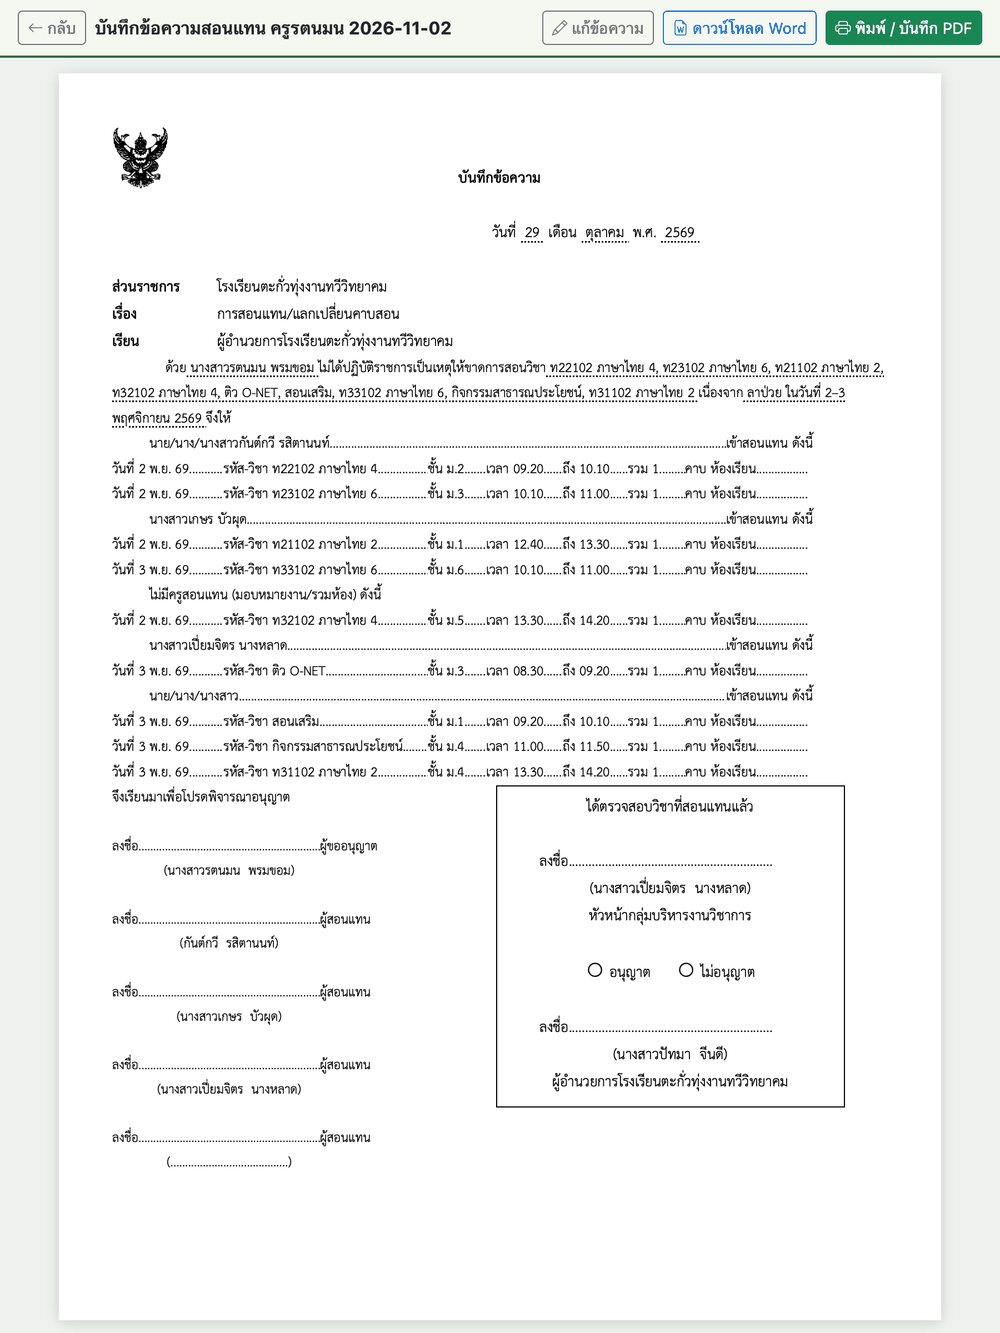
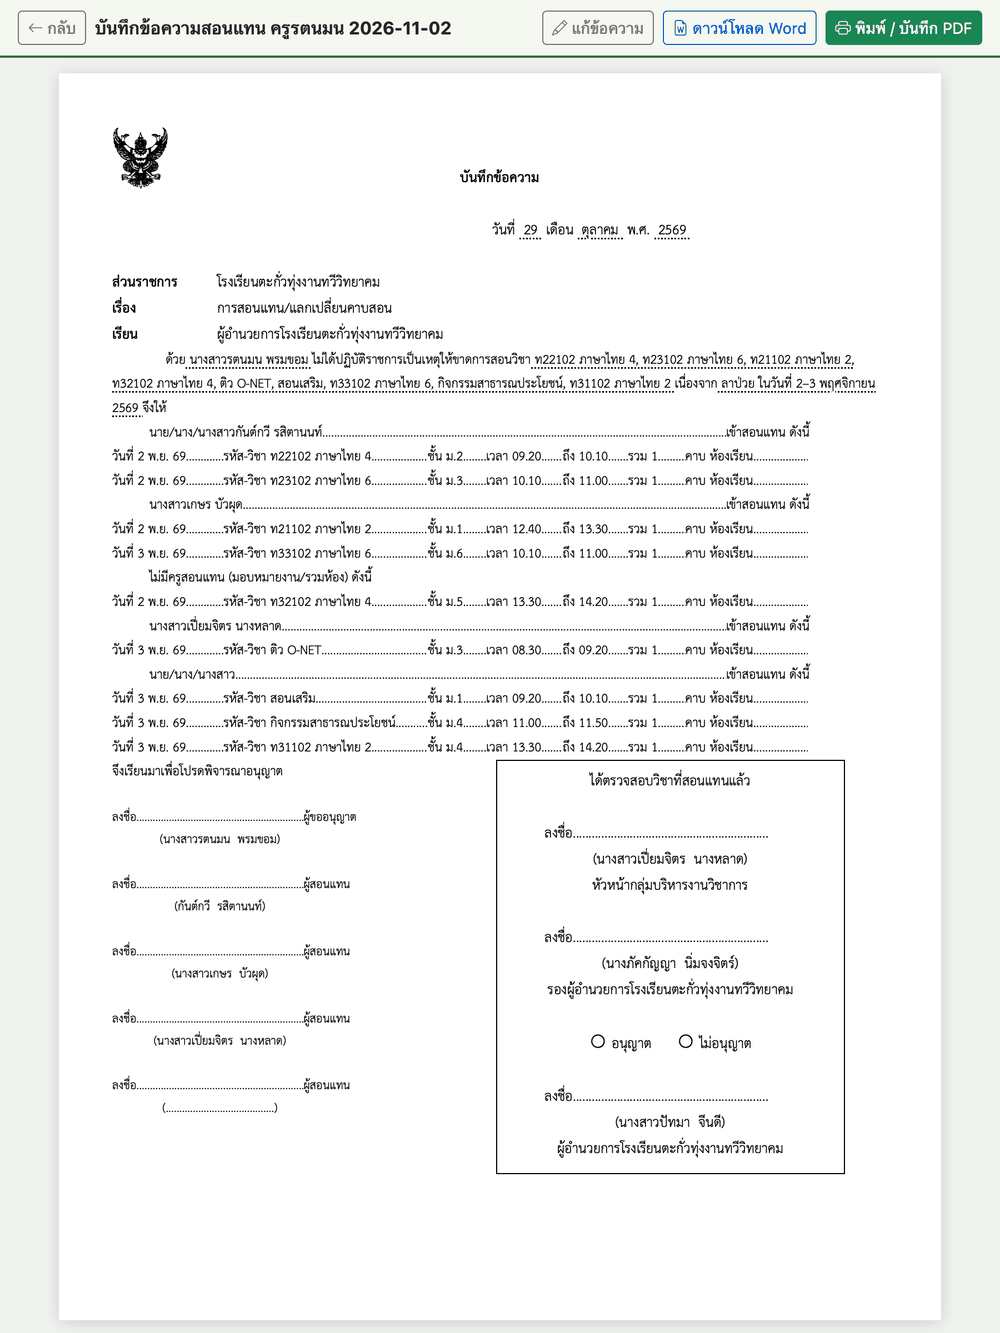
บันทึกข้อความสอนแทน: เพิ่มลงชื่อรองผู้อำนวยการใต้หัวหน้ากลุ่มบริหารงานวิชาการในกรอบขวา (Word + PDF)
ชื่อ/ตำแหน่งจากผู้ลงนามท้ายตารางสอนคนที่ 2 (ไม่มี = นางภัคกัญญา นิ่มจงจิตร์ รองผู้อำนวยการโรงเรียน…)
ขึ้นเสมอแม้ตั้งซ่อนในตารางสอน · คู่มือ + ภาพตัวอย่างอัปเดต

diff --git a/public/subs-guide.html b/public/subs-guide.html
@@ -246,14 +246,14 @@
         <ul>
           <li>วันที่ · ชื่อครูที่ไม่มา · วิชาที่ขาดสอน · สาเหตุและวันที่ลา</li>
           <li>ครูสอนแทนแยกเป็นคน แต่ละแถวมี วันที่ รหัส-วิชา ชั้น เวลา ถึง รวมกี่คาบ (คาบติดกันรวมเป็นแถวเดียว)</li>
-          <li>ชื่อในวงเล็บใต้ลายเซ็นทุกช่อง · หัวหน้ากลุ่มบริหารงานวิชาการ · ผู้อำนวยการ</li>
+          <li>ชื่อในวงเล็บใต้ลายเซ็นทุกช่อง · หัวหน้ากลุ่มบริหารงานวิชาการ · รองผู้อำนวยการ · ผู้อำนวยการ</li>
         </ul>
         <h3>เขียนเอง</h3>
         <ul>
           <li>ลายเซ็น · ช่อง <b>ห้องเรียน</b> (ระบบไม่มีข้อมูลห้อง) · ผอ. ทำเครื่องหมาย ○ อนุญาต / ไม่อนุญาต</li>
         </ul>
         <h3>ลำดับลงนาม</h3>
-        <p>ผู้ขออนุญาต → ผู้สอนแทน → หัวหน้ากลุ่มบริหารงานวิชาการ (ตรวจ) → ผู้อำนวยการ (อนุญาต)</p>
+        <p>ผู้ขออนุญาต → ผู้สอนแทน → หัวหน้ากลุ่มบริหารงานวิชาการ (ตรวจ) → รองผู้อำนวยการ → ผู้อำนวยการ (อนุญาต)</p>
       </div>
     </div>
     <table>
@@ -305,7 +305,7 @@
       <p>ยังไม่มีใครรับคาบนั้น ช่องชื่อจะว่างไว้ · รอให้มีคนรับ/ผู้จัดสอนแทนเลือกครูก่อน แล้วเปิดบันทึกข้อความใหม่ ข้อมูลอัปเดตทันที</p></details>
     <details><summary>คำนำหน้าชื่อขึ้น "นาย/นาง/นางสาว" / ชื่อผู้ลงนามไม่ถูก</summary>
       <p>ขีดเลือกบนกระดาษ หรือกด <b>แก้ข้อความ</b> ก่อนพิมพ์ · แก้ถาวร: ชื่อบัญชีผู้ใช้ใส่คำนำหน้า (หัวข้อ 6) ·
-        ชื่อหัวหน้ากลุ่มบริหารงานวิชาการ = ผู้ลงนามท้ายตารางสอน (จัดตาราง → เครื่องมือ → ผู้ลงนามท้ายตาราง) · ชื่อ ผอ. = หน้าตั้งค่าระบบ</p></details>
+        ชื่อหัวหน้ากลุ่มบริหารงานวิชาการ และรองผู้อำนวยการ = ผู้ลงนามท้ายตารางสอน คนที่ 1 และ 2 (จัดตาราง → เครื่องมือ → ผู้ลงนามท้ายตาราง) · ชื่อ ผอ. = หน้าตั้งค่าระบบ</p></details>
     <details><summary>ลาหลายวัน บันทึกข้อความยาวจนตัวหนังสือเล็ก</summary>
       <p>ระบบย่อให้พอดี 1 หน้า (ย่อได้ถึงราว 80%) ถ้าคาบเยอะมาก Word จะขึ้นหน้า 2 ต่อให้เอง · ลาไม่มีกำหนด หรือยาวกว่า 2 สัปดาห์ ระบบทำใบเฉพาะวันที่เลือกในแท็บสอนแทน</p></details>
     <details><summary>พิมพ์จาก iPhone / iPad / Safari แล้วไม่พอดีหน้า</summary>

diff --git a/public/sub-memo.html b/public/sub-memo.html
@@ -107,7 +107,7 @@ function signHTML(label, name, center) {
     <div class="r">${hidSign}<span class="d c"><span>(${escH(name || '.'.repeat(40))})</span></span>${center ? hidSign : ''}</div></div>`;
 }
 
-function memoHTML(m, acad, dir) {
+function memoHTML(m, acad, dep, dir) {
   const fld = (lab, v, w) => `<span class="fill" style="flex-basis:${(w / W_TWIPS * 100).toFixed(2)}%"><span>${escH(lab)}</span>${v ? `<span class="fv">${escH(v)}</span>` : ''}<span class="dots"></span></span>`;
   const rowHTML = r => {
     const vals = r ? [r.date, r.subject, r.cls, r.start, r.end, String(r.n), ''] : FIELDS.map(() => '');
@@ -138,6 +138,7 @@ function memoHTML(m, acad, dir) {
         <div class="m-box m-h">
           <div>ได้ตรวจสอบวิชาที่สอนแทนแล้ว</div><div class="blank"></div>
           ${signHTML('', acad.name, true)}<div>${escH(acad.title)}</div><div class="blank"></div>
+          ${signHTML('', dep.name, true)}<div>${escH(dep.title)}</div><div class="blank"></div>
           <div><span class="circle">○</span> อนุญาต &nbsp;&nbsp;&nbsp;&nbsp; <span class="circle">○</span> ไม่อนุญาต</div><div class="blank"></div>
           ${signHTML('', dir.name, true)}<div>${escH(dir.full_title)}</div>
         </div>
@@ -177,7 +178,7 @@ async function render() {
   const d = await apiFetch('/api/sub-memo?' + API_Q);
   document.title = d.title;
   document.getElementById('docTitle').textContent = d.title;
-  document.getElementById('pages').innerHTML = d.memos.length ? d.memos.map(m => memoHTML(m, d.academic, d.director)).join('')
+  document.getElementById('pages').innerHTML = d.memos.length ? d.memos.map(m => memoHTML(m, d.academic, d.deputy, d.director)).join('')
     : '<div class="text-center text-muted py-5"><i class="bi bi-calendar-check fs-1 d-block mb-2"></i>วันนี้ไม่มีครูที่ต้องมีคนสอนแทน</div>';
   await fontsReady();
   fitPages();

diff --git a/submemo.py b/submemo.py
@@ -5,7 +5,8 @@
   ครุฑ + บันทึกข้อความ · วันที่ เดือน พ.ศ. · ส่วนราชการ / เรื่อง การสอนแทน/แลกเปลี่ยนคาบสอน / เรียน ผู้อำนวยการ
   ด้วย [ครูที่ไม่มา] ไม่ได้ปฏิบัติราชการเป็นเหตุให้ขาดการสอนวิชา [วิชา] เนื่องจาก [สาเหตุ] จึงให้
     [ครูสอนแทน] เข้าสอนแทน ดังนี้ — แถวละ: วันที่ รหัส-วิชา ชั้น เวลา ถึง รวม…คาบ ห้องเรียน (คาบติดกันรวมเป็นแถวเดียว)
-  ซ้าย: ลงชื่อผู้ขออนุญาต + ผู้สอนแทนทุกคน · กรอบขวา: หัวหน้ากลุ่มบริหารงานวิชาการตรวจ / ผอ. อนุญาต-ไม่อนุญาต
+  ซ้าย: ลงชื่อผู้ขออนุญาต + ผู้สอนแทนทุกคน · กรอบขวา: หัวหน้ากลุ่มบริหารงานวิชาการตรวจ / รอง ผอ. / ผอ. อนุญาต-ไม่อนุญาต
+  (รอง ผอ. ครูสั่งเพิ่ม 29 ต.ค. 69 — ชื่อจากผู้ลงนามท้ายตารางสอนคนที่ 2)
 1 ใบ = บันทึกครูไม่มา 1 รายการ (ลาหลายวัน = ใบเดียว) · ไม่มีกำหนด/ยาวเกิน 14 วัน = เฉพาะวันที่เลือก
 คาบที่ยังไม่มีคนรับ = กลุ่มชื่อว่าง (เขียนเพิ่มได้) · ห้องเรียน: ระบบไม่มีข้อมูลห้อง เว้นจุดไว้ให้เขียน
 คำนำหน้าชื่อ: ระบบเก็บชื่อครูไม่มีคำนำหน้า → หาจากชื่อครูที่ปรึกษา / บัญชีผู้ใช้ / ผู้ลงนาม ไม่พบ = "นาย/นาง/นางสาว" ให้ขีดเลือก
@@ -46,6 +47,8 @@ ROW_MAX = W - 40
 MIN_DOTS = 0.8                                      # จุดอย่างน้อยหลังค่าในแต่ละช่อง (เท่าของตัวอักษร)
 COL_LEFT, COL_BOX = 5182, 4708                      # ช่องลงชื่อซ้าย / กรอบ หัวหน้าวิชาการ-ผอ. (ที่เหลือ = ช่องว่างขวา)
 SIGN_DOTS = 10                                      # ความยาวเส้นจุดลงชื่อ (เท่าของตัวอักษร)
+DEFAULT_DEPUTY = 'นางภัคกัญญา นิ่มจงจิตร์'            # รอง ผอ. เมื่อยังไม่ตั้งในตารางสอน (เหมือน DEFAULT_DEPUTY ใน timetable.html)
+BOX_LINES = 15                                      # บรรทัดในกรอบขวา: ตรวจ(5) + รอง ผอ.(4) + อนุญาต(2) + ผอ.(3) + ว่าง
 
 # ความกว้างตัวอักษร TH Sarabun New ตัวธรรมดา (1/1000 เท่าของขนาด วัดจากไฟล์ฟอนต์ public/fonts ด้วย Pillow)
 # สระบน-ล่าง/วรรณยุกต์ = 0 · ตัวที่ไม่มีในตาราง = 450 · TH SarabunPSK ใน Word กว้างใกล้เคียงกัน
@@ -211,7 +214,7 @@ def layout(m):
         h += body * LINE * math.ceil(para_em * 1.05 / (W / (20 * body)) + 0.15)       # ตัดคำไทยเหลือท้ายบรรทัด ~5%
         h += body * LINE * nlines
         left = body * LINE + len(m['signers']) * 3 * sign * LINE
-        return h + max(left, 11 * head * LINE + 10)
+        return h + max(left, BOX_LINES * head * LINE + 10)
 
     k = 1.0
     while k > 0.78 and height(k) > AVAIL_PT:
@@ -294,7 +297,7 @@ def _sign(label, name, size, left, dots_em=SIGN_DOTS, mid=None):
             + _p(_tab(size) + _r(f"({name or '.' * 40})", size), ind=ind, tabs=[('center', mid, False)], keep=True))
 
 
-def memo_xml(m, n, academic, director):
+def memo_xml(m, n, boss):
     sz = m['size']
     h, b, s, rs = sz['head'], sz['body'], sz['sign'], sz['row']
     md = m['memo_date']
@@ -306,7 +309,7 @@ def memo_xml(m, n, academic, director):
     x += _p(_r(' ', h))
     info_tab = [('left', INFO_TAB, False)]
     school = m['school']
-    dir_title = director['title']
+    dir_title = boss['director']['title']
     for lab, val in (('ส่วนราชการ', school), ('เรื่อง', 'การสอนแทน/แลกเปลี่ยนคาบสอน'), ('เรียน', dir_title)):
         x += _p(_r(lab, h, True) + _tab(h) + _r(val, h), tabs=info_tab)
     x += _p(''.join(_r(f' {t} ' if v else t, b, u=bool(v)) for t, v in m['para']),
@@ -331,11 +334,13 @@ def memo_xml(m, n, academic, director):
     for sg in m['signers']:
         left += _p(_r(' ', s), keep=True) + _sign(sg['label'], sg['name'], s, 0)
     c = COL_BOX // 2
+    acad, dep, dirc = boss['academic'], boss['deputy'], boss['director']
     box = (_p(_r('ได้ตรวจสอบวิชาที่สอนแทนแล้ว', h), 'center') + _p(_r(' ', h))
-           + _sign('', academic['name'], h, 0, mid=c) + _p(_r(academic['title'], h), 'center') + _p(_r(' ', h))
+           + _sign('', acad['name'], h, 0, mid=c) + _p(_r(acad['title'], h), 'center') + _p(_r(' ', h))
+           + _sign('', dep['name'], h, 0, mid=c) + _p(_r(dep['title'], h), 'center') + _p(_r(' ', h))
            + _p(_r('○', h + 2, font='Segoe UI Symbol') + _r(' อนุญาต      ', h) + _r('○', h + 2, font='Segoe UI Symbol')
                 + _r(' ไม่อนุญาต', h), 'center') + _p(_r(' ', h))
-           + _sign('', director['name'], h, 0, mid=c) + _p(_r(director['full_title'], h), 'center'))
+           + _sign('', dirc['name'], h, 0, mid=c) + _p(_r(dirc['full_title'], h), 'center'))
     one = '<w:{0} w:val="single" w:sz="8" w:space="0" w:color="000000"/>'
     nil = ''.join(f'<w:{e} w:val="nil"/>' for e in ('top', 'left', 'bottom', 'right', 'insideH', 'insideV'))
     spare = W - COL_LEFT - COL_BOX
@@ -352,8 +357,8 @@ def memo_xml(m, n, academic, director):
     return x
 
 
-def build_docx(memos, title, academic, director):
-    body = ''.join(memo_xml(m, i + 1, academic, director) for i, m in enumerate(memos))
+def build_docx(memos, title, sg):
+    body = ''.join(memo_xml(m, i + 1, sg) for i, m in enumerate(memos))
     sect = (f'<w:sectPr><w:pgSz w:w="{PAGE_W}" w:h="{PAGE_H}"/><w:pgMar w:top="{MARGIN}" w:right="{MARGIN}" w:bottom="{MARGIN}" '
             f'w:left="{MARGIN}" w:header="425" w:footer="425" w:gutter="0"/></w:sectPr>')
     ns = ('xmlns:w="http://schemas.openxmlformats.org/wordprocessingml/2006/main" '
@@ -407,31 +412,34 @@ def build_docx(memos, title, academic, director):
     return buf
 
 
-def signers_of(con, day, settings, pre):
-    """ผู้ลงนามในกรอบขวา: หัวหน้ากลุ่มบริหารงานวิชาการ (ผู้ลงนามคนแรกท้ายตารางสอน) + ผอ. (หน้าตั้งค่า)"""
-    acad = None
+def signers_of(con, settings):
+    """ผู้ลงนามในกรอบขวา: หัวหน้ากลุ่มบริหารงานวิชาการ + รอง ผอ. (ผู้ลงนามคนที่ 1, 2 ท้ายตารางสอน) + ผอ. (หน้าตั้งค่า)
+    รอง ผอ. ขึ้นเสมอแม้ตั้งซ่อนในตารางสอน (ครูสั่งให้มีในบันทึกข้อความ)"""
+    raw = []
     for r in con.execute('SELECT config FROM tt_terms ORDER BY published DESC, id DESC'):
-        sg = [x for x in jl(r['config'], {}).get('signers') or [] if isinstance(x, dict) and x.get('name')]
-        if sg:
-            acad = sg[0]
+        raw = [x if isinstance(x, dict) else {} for x in jl(r['config'], {}).get('signers') or []]
+        if any(x.get('name') for x in raw):
             break
+    acad = raw[0] if raw and raw[0].get('name') else {}
+    dep = raw[1] if len(raw) > 1 and raw[1].get('name') else {}
     school = settings.get('school_name', '')
     title = settings.get('director_title') or 'ผู้อำนวยการโรงเรียน'
     full_title = (title.replace('โรงเรียน', '') + school) if school.startswith('โรงเรียน') else title + school
     paren = lambda n: re.sub(r'\s+', '  ', (n or '').strip())          # noqa: E731  (ชื่อ  นามสกุล เว้น 2 เคาะตามแบบฟอร์ม)
-    return (dict(name=paren(acad['name']) if acad else '', title=(acad or {}).get('title') or 'หัวหน้ากลุ่มบริหารงานวิชาการ'),
-            dict(name=paren(settings.get('director_name')), title=full_title, full_title=full_title))
+    return dict(academic=dict(name=paren(acad.get('name')), title=acad.get('title') or 'หัวหน้ากลุ่มบริหารงานวิชาการ'),
+                deputy=dict(name=paren(dep.get('name') or DEFAULT_DEPUTY), title=dep.get('title') or 'รอง' + full_title),
+                director=dict(name=paren(settings.get('director_name')), title=full_title, full_title=full_title))
 
 
 def init(app, get_db, login_required, current_user, get_settings):
     from flask import jsonify, request, send_file
 
     def collect():
-        """?date=วันที่ [&absence_id=] → (memos, title, academic, director, None) หรือ (..., (ข้อความ, status))"""
+        """?date=วันที่ [&absence_id=] → (memos, title, ผู้ลงนาม, None) หรือ (None, None, None, (ข้อความ, status))"""
         a, s = request.args, get_settings()
         day = a.get('date', '') or datetime.date.today().isoformat()
         if not DATE_RE.match(day):
-            return None, None, None, None, ('วันที่ไม่ถูกต้อง', 400)
+            return None, None, None, ('วันที่ไม่ถูกต้อง', 400)
         with get_db() as con:
             if a.get('absence_id'):
                 try:
@@ -439,7 +447,7 @@ def init(app, get_db, login_required, current_user, get_settings):
                 except ValueError:
                     rows = [None]
                 if not rows[0]:
-                    return None, None, None, None, ('ไม่พบบันทึกครูไม่มา (อาจถูกลบแล้ว)', 404)
+                    return None, None, None, ('ไม่พบบันทึกครูไม่มา (อาจถูกลบแล้ว)', 404)
             else:
                 rows = con.execute('SELECT * FROM tt_absences WHERE date_from<=? AND date_to>=? ORDER BY id', (day, day)).fetchall()
             pre = prefix_index(con, s)
@@ -448,30 +456,30 @@ def init(app, get_db, login_required, current_user, get_settings):
             memos = [build_memo(con, r, day, s, pre, names, subjects) for r in rows]
             if not a.get('absence_id'):                                # พิมพ์รายวัน: เฉพาะครูที่มีคาบต้องมีคนสอนแทน
                 memos = [m for m in memos if m['count']]
-            academic, director = signers_of(con, day, s, pre)
+            sg = signers_of(con, s)
         if a.get('absence_id'):
             m = memos[0]
             title = f"บันทึกข้อความสอนแทน ครู{m['teacher'].split(' ')[0]} {m['date_from']}"
         else:
             title = f'บันทึกข้อความสอนแทน {day}'
-        return memos, title, academic, director, None
+        return memos, title, sg, None
 
     @app.get('/api/sub-memo')
     @login_required
     def sub_memo():
-        memos, title, academic, director, err = collect()
+        memos, title, sg, err = collect()
         if err:
             return jsonify(success=False, message=err[0]), err[1]
-        return jsonify(memos=memos, title=title, academic=academic, director=director)
+        return jsonify(memos=memos, title=title, **sg)
 
     @app.get('/api/sub-memo.docx')
     @login_required
     def sub_memo_docx():
-        memos, title, academic, director, err = collect()
+        memos, title, sg, err = collect()
         if err:
             return jsonify(success=False, message=err[0]), err[1]
         if not memos:
             return jsonify(success=False, message='วันนี้ไม่มีครูที่ต้องมีคนสอนแทน'), 404
-        return send_file(build_docx(memos, title, academic, director), as_attachment=True,
+        return send_file(build_docx(memos, title, sg), as_attachment=True,
                          download_name=title.replace(' ', '_') + '.docx',
                          mimetype='application/vnd.openxmlformats-officedocument.wordprocessingml.document')
